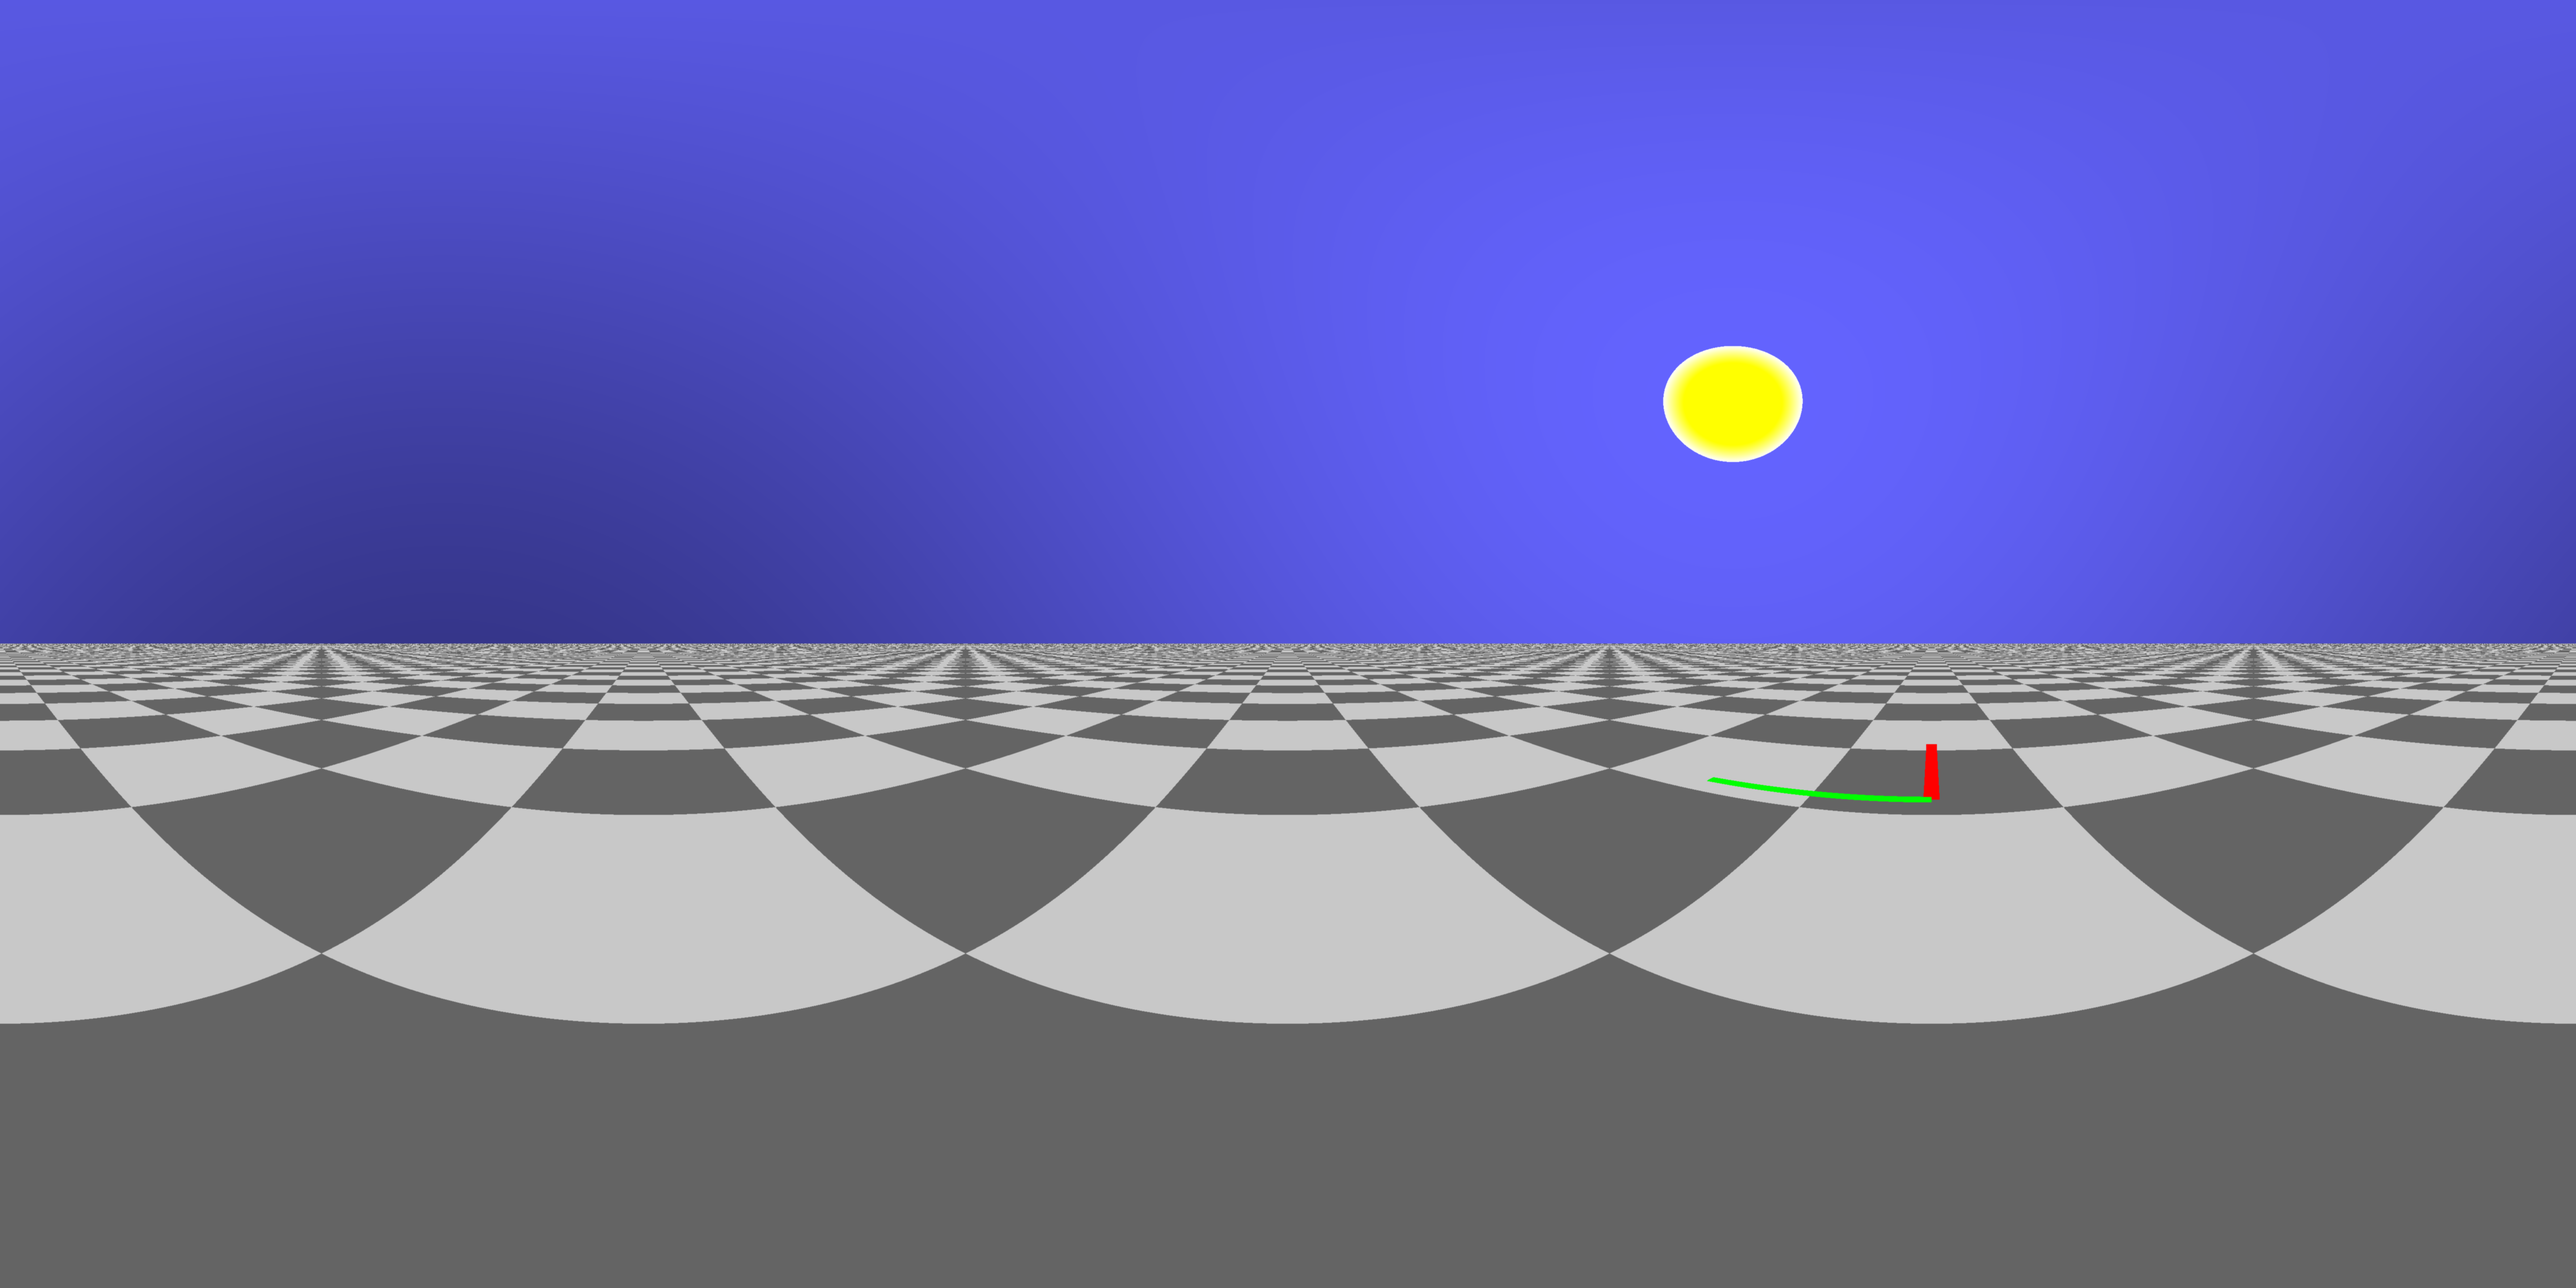
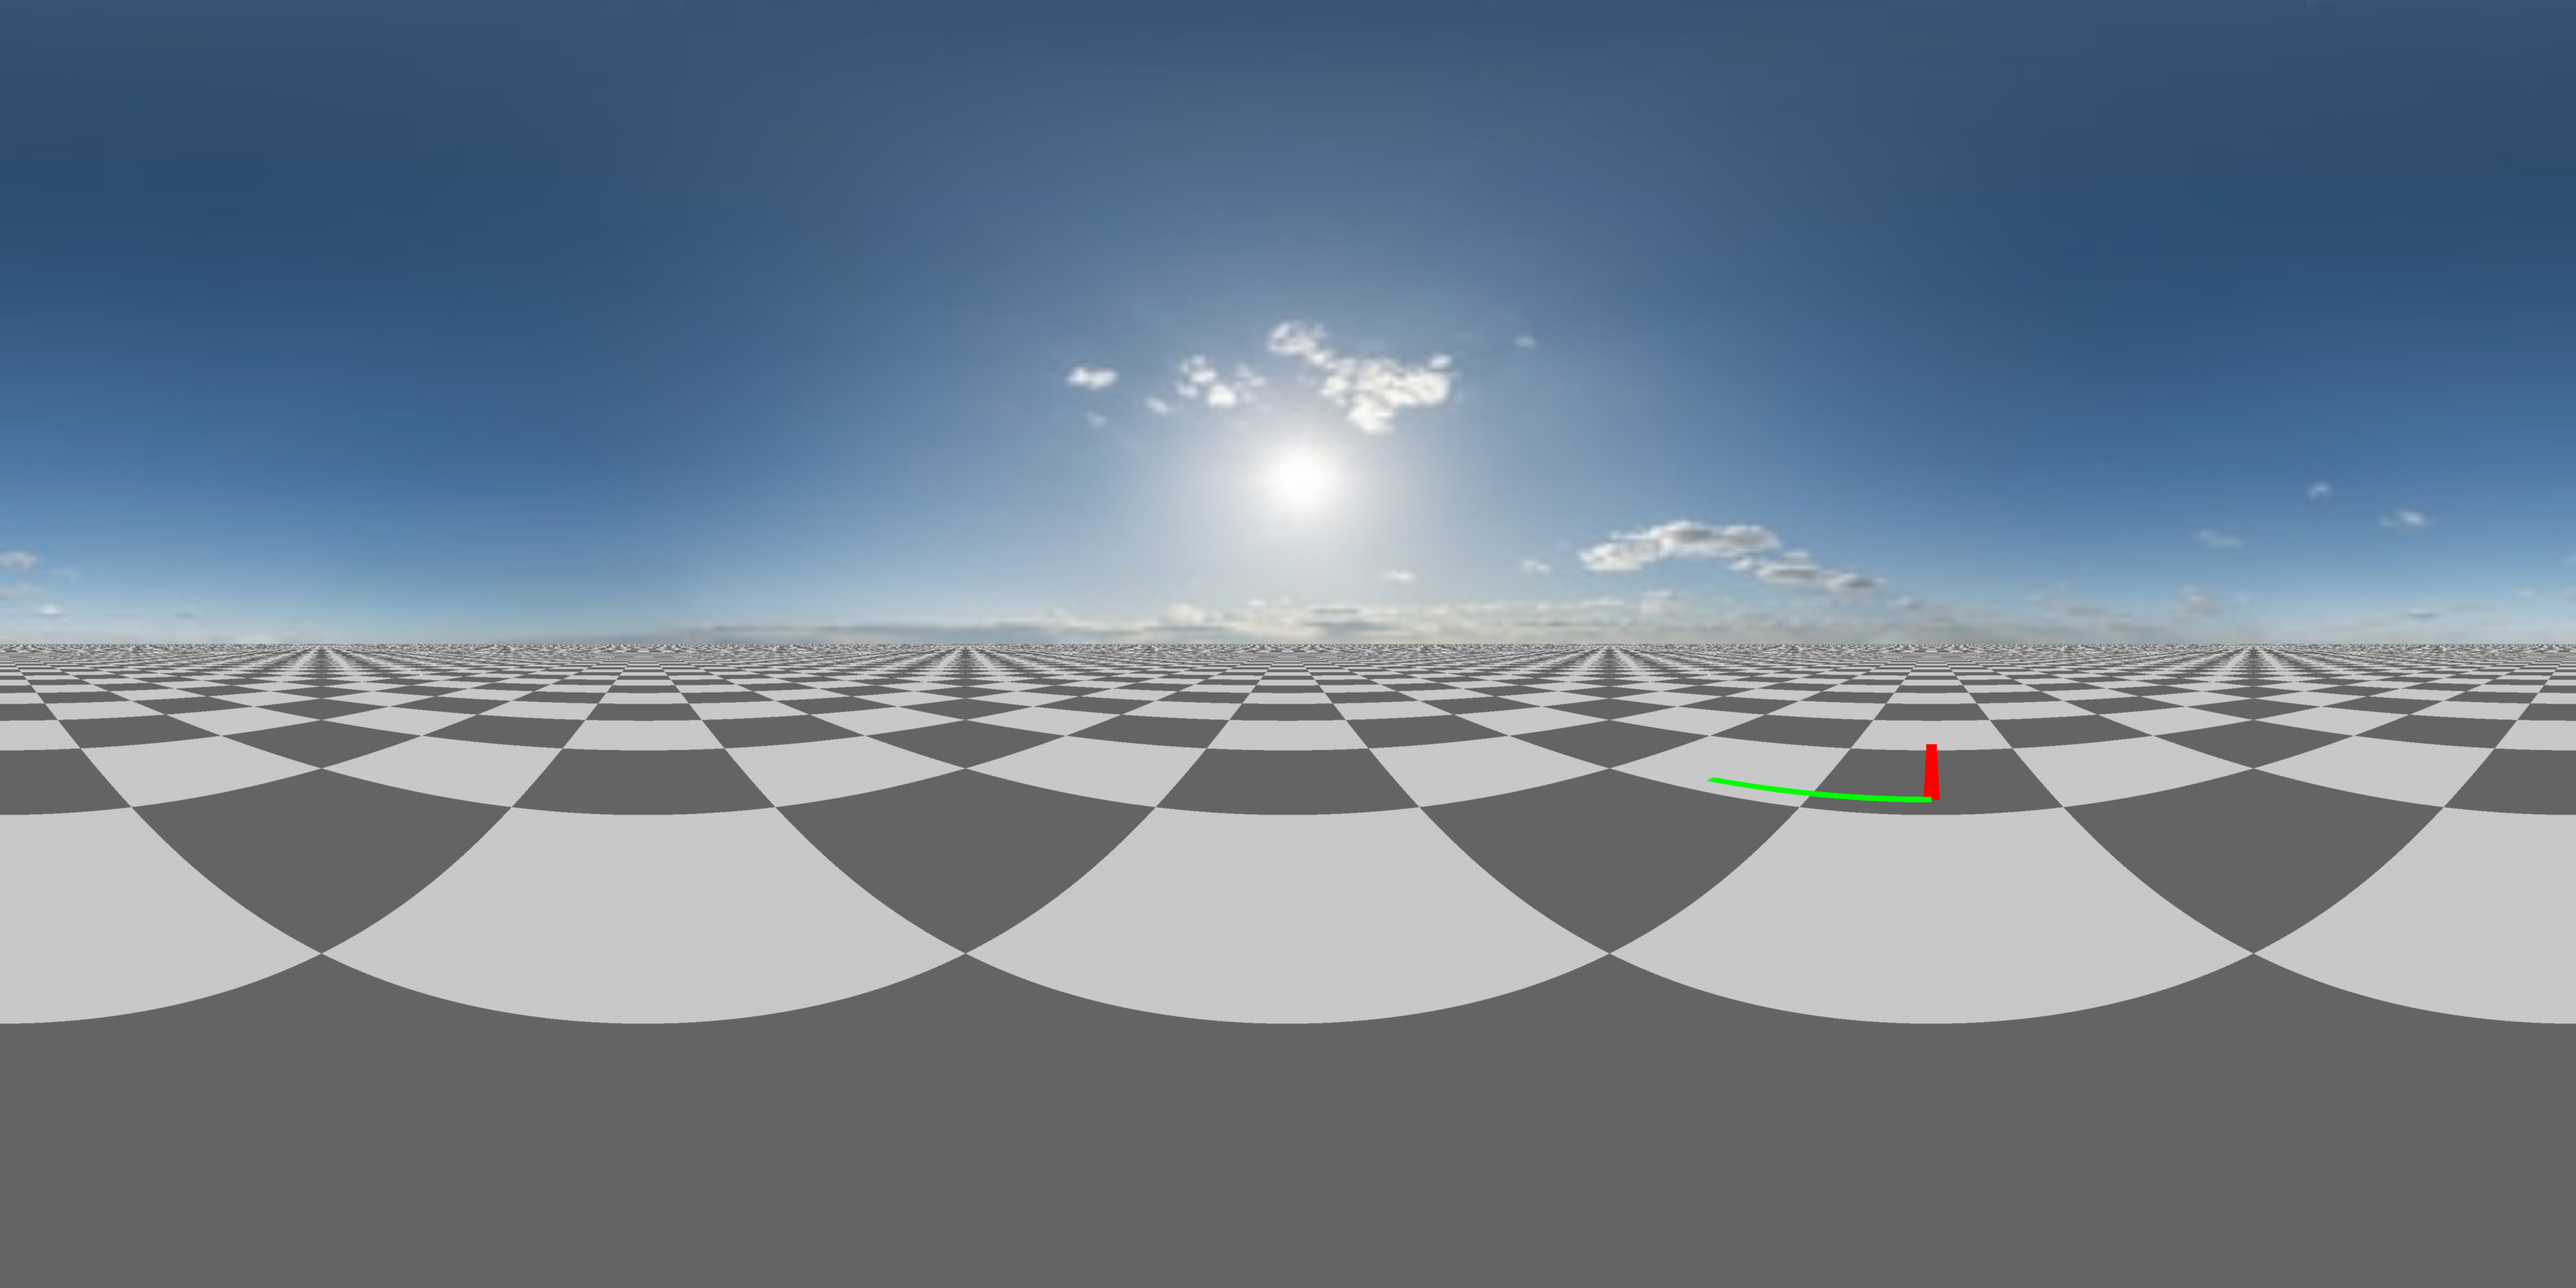
adding vehicle configuration tab

diff --git a/scripts/qt_gui/tab_geolocation/geolocation_tab.py b/scripts/qt_gui/tab_geolocation/geolocation_tab.py
@@ -69,31 +69,13 @@ class GeolocationTab(QWidget):
         # VTK setup in a separate function
         self.init_vtk_scene()
 
-        # if self.shared_data['config']:
-        #     LLA = [self.shared_data['config']['SENS_LAT_ORIGIN']['value'],
-        #            self.shared_data['config']['SENS_LON_ORIGIN']['value'],
-        #            self.shared_data['config']['SENS_ALT_ORIGIN']['value']]
-        #     # Optional defaults for line edits:
-        #     self.line_edit_latitude.setText(str(LLA[0]))
-        #     self.line_edit_longitude.setText(str(LLA[1]))
-        #     self.line_edit_altitude.setText(str(LLA[2]))
-
-        #     MAG = [self.shared_data['config']['SENS_MAG_FIELD_E']['value'],
-        #            self.shared_data['config']['SENS_MAG_FIELD_N']['value'],
-        #            self.shared_data['config']['SENS_MAG_FIELD_U']['value']]
-        #     self.line_edit_mag_east.setText(str(MAG[0]))
-        #     self.line_edit_mag_north.setText(str(MAG[1]))
-        #     self.line_edit_mag_up.setText(str(MAG[2]))
-
-        #     # Update visualization
-        #     self.socket.send_string(json.dumps({'LLA':LLA, 'MAG':MAG}))
-
         # ----------------------------------------------------------------------
         # Connect signals
         # ----------------------------------------------------------------------
         self.push_button_set_values.clicked.connect(self.set_values)
         self.push_button_compute.clicked.connect(self.compute_local_field)
         self.push_button_apply.clicked.connect(self.apply_computed_field)
+
 
     def on_tab_selected(self):
         if self.shared_data['config']:
@@ -114,6 +96,7 @@ class GeolocationTab(QWidget):
 
             # Update visualization
             self.socket.send_string(json.dumps({'LLA':LLA, 'MAG':MAG}))
+
 
     def init_vtk_scene(self):
         """
@@ -165,6 +148,7 @@ class GeolocationTab(QWidget):
     
         return True, LLA, mag
 
+
     def set_values(self):
 
         valid, LLA, mag = self.get_values_from_widget()
@@ -210,7 +194,6 @@ class GeolocationTab(QWidget):
                 revision='2020',
                 sub_revision='2'
             )
-            print("A")
             # Get the geolocation where the field will be computed
             valid, LLA, _ = self.get_values_from_widget()
             if (not valid):
@@ -223,7 +206,6 @@ class GeolocationTab(QWidget):
                 altitude=LLA[2]/1000.0,             # altitude in km
                 date=datetime.now().strftime("%Y-%m-%d")    # date
             )
-            print("B")
             # Store the computed magnetic field in the ENU frame in Gauss
             self.estimated_mag_field = [
                 round(result['field-value']['east-intensity']['value']*1e-5,8),
@@ -233,13 +215,12 @@ class GeolocationTab(QWidget):
             # Update the label that displays the computed field
             result_str = ("[lat,lon,alt] = [%.3f°, %.3f°, %.0fm]\n\n  Field East: %.5f [Gauss]\nField North: %.5f [Gauss]\n    Field Up: %.5f [Gauss]" % tuple(LLA+self.estimated_mag_field))
             self.label_computed_field.setText(result_str)
-            print("D")
         except:
             # Use the label to display that there was an error in the magnetic field computation
             # self.estimated_mag_label.config(text="Error in the computation of magnetic field\n\n\n\n")
             # self.root.update()
-            print("E")
             return
+
 
     def apply_computed_field(self):
         print("Apply computed field clicked.")

diff --git a/scripts/qt_gui/qt_sim4cd.py b/scripts/qt_gui/qt_sim4cd.py
@@ -19,6 +19,7 @@ from tab_home.home_tab import HomeTab
 
 from tab_all_params.all_params_tab import AllParamsTab
 from tab_geolocation.geolocation_tab import GeolocationTab
+from tab_vehicle.vehicle_tab import VehicleTab
 
 class MainWindow(QMainWindow):
     def __init__(self):
@@ -48,12 +49,14 @@ class MainWindow(QMainWindow):
         # Create each tab's widget
         self.tab_home = HomeTab(shared_data=self.shared_data)
         self.tab_geolocation = GeolocationTab(shared_data=self.shared_data)
+        self.tab_vehicle = VehicleTab(shared_data=self.shared_data)
         self.tab_all_params = AllParamsTab(shared_data=self.shared_data)
         
         
         # Add them to the QTabWidget
         self.tabs.addTab(self.tab_home, "Simulate")
         self.tabs.addTab(self.tab_geolocation, "Geolocation")
+        self.tabs.addTab(self.tab_vehicle, "Vehicle")
         self.tabs.addTab(self.tab_all_params, "All parameters list")
 
         # # --- Second (top-level) tab with nested tabs ---
